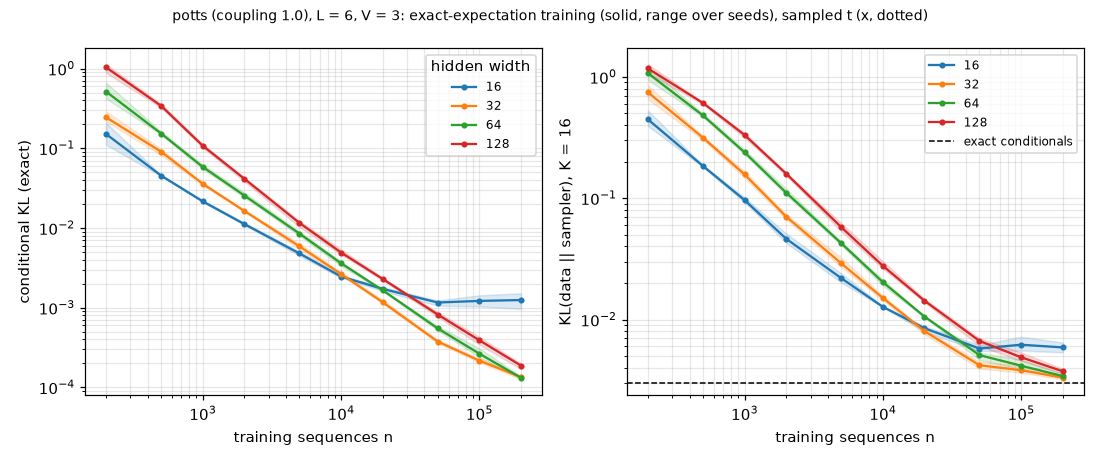
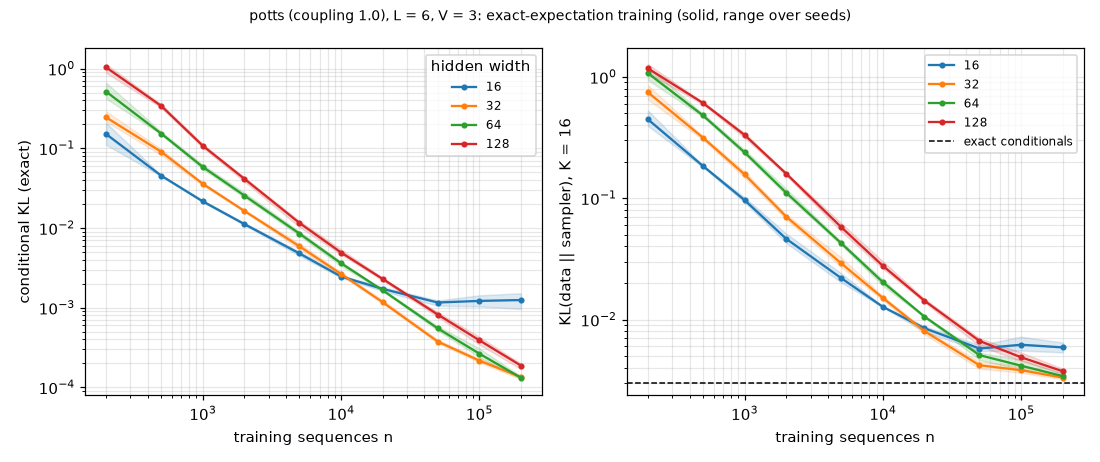
Draw the sampled-t title only when it is plotted
The Potts figure has no sampled-t series, so its title and caption no longer name one. The figure is redrawn from results/denoiser_potts.json, no number changed.

Changed region(s): [[0.1545, 0.0, 0.8345, 0.0606]]

diff --git a/scripts/denoiser_study.py b/scripts/denoiser_study.py
@@ -122,11 +122,13 @@ def plot(report: dict, path: Path) -> None:
     axes[0].legend(title="hidden width", fontsize=8)
     axes[1].legend(fontsize=8)
     name = report["law"]["name"]
-    fig.suptitle(
+    title = (
         f"{name}, L = {LENGTH}, V = {VOCAB}: exact-expectation training "
-        "(solid, range over seeds), sampled t (x, dotted)",
-        fontsize=9,
+        "(solid, range over seeds)"
     )
+    if report["sampled_runs"]:
+        title += ", sampled t (x, dotted)"
+    fig.suptitle(title, fontsize=9)
     fig.tight_layout()
     fig.savefig(path, dpi=110)
 

diff --git a/README.md b/README.md
@@ -189,6 +189,8 @@ The picture matches the Markov chain: wider is worse up to $n = 10^4$ (n = 200: 
 
 ![Conditional KL and sampler KL against the number of training sequences, Potts ring](results/denoiser_potts.png)
 
+Solid lines: exact-expectation training, band = range over seeds. There are no sampled-$t$ runs for this law. Dashed line: sampler KL with exact conditionals.
+
 ## What is in the repo
 
 ```
